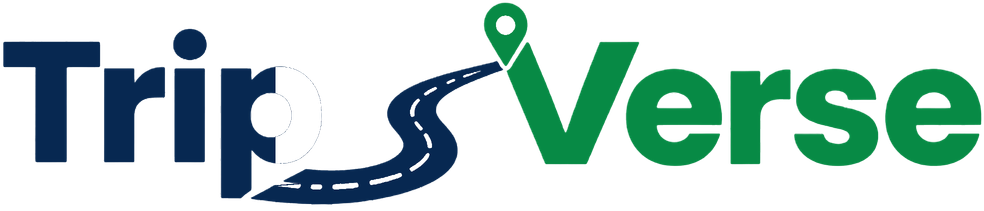
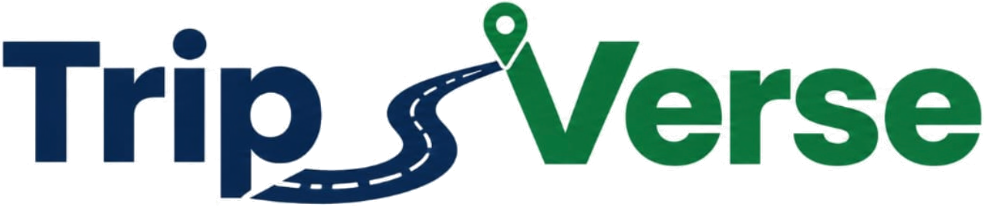
fix(ui,brand): restore 5-tab mobile bottom nav and original un-cut light-mode wordmark

diff --git a/src/components/common/BottomNav.tsx b/src/components/common/BottomNav.tsx
@@ -1,5 +1,5 @@
 import React from 'react';
-import { Home, Briefcase, Bookmark, User, Sparkles, Compass } from 'lucide-react';
+import { Home, Briefcase, Bookmark, User, Sparkles } from 'lucide-react';
 import { triggerHaptic } from '../../services/deviceService';
 import { useLanguage } from '../../services/languageService';
 
@@ -31,7 +31,7 @@ export const BottomNav: React.FC<BottomNavProps> = ({
   return (
     <nav
       aria-label="Mobile Bottom Navigation"
-      className="lg:hidden fixed bottom-0 left-0 right-0 z-40 bg-white/95 dark:bg-[#070C16]/95 backdrop-blur-xl border-t border-[#E2EBE1] dark:border-slate-800/90 px-1.5 py-1 shadow-[0_-4px_24px_rgba(45,90,61,0.06)] dark:shadow-[0_-4px_28px_rgba(0,0,0,0.45)] pb-safe transition-colors duration-200"
+      className="lg:hidden fixed bottom-0 left-0 right-0 z-40 bg-white/95 dark:bg-[#070C16]/95 backdrop-blur-xl border-t border-[#E2EBE1] dark:border-slate-800/90 px-2 py-1 shadow-[0_-4px_24px_rgba(45,90,61,0.06)] dark:shadow-[0_-4px_28px_rgba(0,0,0,0.45)] pb-safe transition-colors duration-200"
     >
       <div className="max-w-md mx-auto flex items-center justify-around">
         
@@ -39,7 +39,7 @@ export const BottomNav: React.FC<BottomNavProps> = ({
         <button
           type="button"
           onClick={() => handleTabClick('home')}
-          className={`relative flex flex-col items-center justify-center py-1.5 px-2.5 rounded-xl transition-all duration-200 active:scale-95 cursor-pointer ${
+          className={`relative flex flex-col items-center justify-center py-1.5 px-3 rounded-xl transition-all duration-200 active:scale-95 cursor-pointer ${
             currentTab === 'home'
               ? 'text-[#2D5A3D] dark:text-[#68B684]'
               : 'text-slate-500 dark:text-slate-400 hover:text-[#152A1C] dark:hover:text-slate-200'
@@ -48,7 +48,7 @@ export const BottomNav: React.FC<BottomNavProps> = ({
           aria-current={currentTab === 'home' ? 'page' : undefined}
         >
           <Home className={`w-5 h-5 transition-transform duration-200 ${currentTab === 'home' ? 'stroke-[2.5] scale-110' : 'stroke-[1.8]'}`} />
-          <span className={`text-[10px] sm:text-[11px] mt-0.5 transition-all duration-200 ${currentTab === 'home' ? 'font-bold' : 'font-medium'}`}>
+          <span className={`text-[11px] mt-0.5 transition-all duration-200 ${currentTab === 'home' ? 'font-bold' : 'font-medium'}`}>
             {t('bottomNav.home')}
           </span>
           {currentTab === 'home' && (
@@ -56,23 +56,23 @@ export const BottomNav: React.FC<BottomNavProps> = ({
           )}
         </button>
 
-        {/* Explore */}
+        {/* Itinerary */}
         <button
           type="button"
-          onClick={() => handleTabClick('explore')}
-          className={`relative flex flex-col items-center justify-center py-1.5 px-2.5 rounded-xl transition-all duration-200 active:scale-95 cursor-pointer ${
-            currentTab === 'explore'
+          onClick={() => handleTabClick('trip-detail')}
+          className={`relative flex flex-col items-center justify-center py-1.5 px-3 rounded-xl transition-all duration-200 active:scale-95 cursor-pointer ${
+            currentTab === 'trip-detail'
               ? 'text-[#2D5A3D] dark:text-[#68B684]'
               : 'text-slate-500 dark:text-slate-400 hover:text-[#152A1C] dark:hover:text-slate-200'
           }`}
-          aria-label={t('nav.destinations')}
-          aria-current={currentTab === 'explore' ? 'page' : undefined}
+          aria-label={t('bottomNav.itinerary')}
+          aria-current={currentTab === 'trip-detail' ? 'page' : undefined}
         >
-          <Compass className={`w-5 h-5 transition-transform duration-200 ${currentTab === 'explore' ? 'stroke-[2.5] scale-110' : 'stroke-[1.8]'}`} />
-          <span className={`text-[10px] sm:text-[11px] mt-0.5 transition-all duration-200 ${currentTab === 'explore' ? 'font-bold' : 'font-medium'}`}>
-            {t('Explore')}
+          <Briefcase className={`w-5 h-5 transition-transform duration-200 ${currentTab === 'trip-detail' ? 'stroke-[2.5] scale-110' : 'stroke-[1.8]'}`} />
+          <span className={`text-[11px] mt-0.5 transition-all duration-200 ${currentTab === 'trip-detail' ? 'font-bold' : 'font-medium'}`}>
+            {t('bottomNav.itinerary')}
           </span>
-          {currentTab === 'explore' && (
+          {currentTab === 'trip-detail' && (
             <span className="w-1.5 h-1.5 rounded-full bg-[#2D5A3D] dark:bg-[#68B684] mt-0.5 animate-scale-in" />
           )}
         </button>
@@ -92,32 +92,11 @@ export const BottomNav: React.FC<BottomNavProps> = ({
           </span>
         </button>
 
-        {/* Itinerary */}
-        <button
-          type="button"
-          onClick={() => handleTabClick('trip-detail')}
-          className={`relative flex flex-col items-center justify-center py-1.5 px-2.5 rounded-xl transition-all duration-200 active:scale-95 cursor-pointer ${
-            currentTab === 'trip-detail'
-              ? 'text-[#2D5A3D] dark:text-[#68B684]'
-              : 'text-slate-500 dark:text-slate-400 hover:text-[#152A1C] dark:hover:text-slate-200'
-          }`}
-          aria-label={t('bottomNav.itinerary')}
-          aria-current={currentTab === 'trip-detail' ? 'page' : undefined}
-        >
-          <Briefcase className={`w-5 h-5 transition-transform duration-200 ${currentTab === 'trip-detail' ? 'stroke-[2.5] scale-110' : 'stroke-[1.8]'}`} />
-          <span className={`text-[10px] sm:text-[11px] mt-0.5 transition-all duration-200 ${currentTab === 'trip-detail' ? 'font-bold' : 'font-medium'}`}>
-            {t('bottomNav.itinerary')}
-          </span>
-          {currentTab === 'trip-detail' && (
-            <span className="w-1.5 h-1.5 rounded-full bg-[#2D5A3D] dark:bg-[#68B684] mt-0.5 animate-scale-in" />
-          )}
-        </button>
-
         {/* Bookings / Trips */}
         <button
           type="button"
           onClick={() => handleTabClick('trips')}
-          className={`relative flex flex-col items-center justify-center py-1.5 px-2.5 rounded-xl transition-all duration-200 active:scale-95 cursor-pointer ${
+          className={`relative flex flex-col items-center justify-center py-1.5 px-3 rounded-xl transition-all duration-200 active:scale-95 cursor-pointer ${
             currentTab === 'trips'
               ? 'text-[#2D5A3D] dark:text-[#68B684]'
               : 'text-slate-500 dark:text-slate-400 hover:text-[#152A1C] dark:hover:text-slate-200'
@@ -126,7 +105,7 @@ export const BottomNav: React.FC<BottomNavProps> = ({
           aria-current={currentTab === 'trips' ? 'page' : undefined}
         >
           <Bookmark className={`w-5 h-5 transition-transform duration-200 ${currentTab === 'trips' ? 'stroke-[2.5] scale-110' : 'stroke-[1.8]'}`} />
-          <span className={`text-[10px] sm:text-[11px] mt-0.5 transition-all duration-200 ${currentTab === 'trips' ? 'font-bold' : 'font-medium'}`}>
+          <span className={`text-[11px] mt-0.5 transition-all duration-200 ${currentTab === 'trips' ? 'font-bold' : 'font-medium'}`}>
             {t('bottomNav.bookings')}
           </span>
           {currentTab === 'trips' && (
@@ -138,7 +117,7 @@ export const BottomNav: React.FC<BottomNavProps> = ({
         <button
           type="button"
           onClick={() => handleTabClick('profile')}
-          className={`relative flex flex-col items-center justify-center py-1.5 px-2.5 rounded-xl transition-all duration-200 active:scale-95 cursor-pointer ${
+          className={`relative flex flex-col items-center justify-center py-1.5 px-3 rounded-xl transition-all duration-200 active:scale-95 cursor-pointer ${
             currentTab === 'profile'
               ? 'text-[#2D5A3D] dark:text-[#68B684]'
               : 'text-slate-500 dark:text-slate-400 hover:text-[#152A1C] dark:hover:text-slate-200'
@@ -152,7 +131,7 @@ export const BottomNav: React.FC<BottomNavProps> = ({
               <span className="absolute -top-1 -right-1 w-2.5 h-2.5 bg-[#2D5A3D] dark:bg-[#68B684] rounded-full ring-2 ring-white dark:ring-[#070C16] animate-pulse" />
             )}
           </div>
-          <span className={`text-[10px] sm:text-[11px] mt-0.5 transition-all duration-200 ${currentTab === 'profile' ? 'font-bold' : 'font-medium'}`}>
+          <span className={`text-[11px] mt-0.5 transition-all duration-200 ${currentTab === 'profile' ? 'font-bold' : 'font-medium'}`}>
             {t('bottomNav.profile')}
           </span>
           {currentTab === 'profile' && (

diff --git a/src/components/common/Logo.tsx b/src/components/common/Logo.tsx
@@ -28,8 +28,8 @@ export const BrandIconMark: React.FC<BrandIconMarkProps> = ({
   if (!imgFailed) {
     return (
       <img
-        src="/tripverse-mark.png?v=13"
-        srcSet="/tripverse-mark.png?v=13 1x, /tripverse-mark@2x.png?v=13 2x, /tripverse-mark@3x.png?v=13 3x"
+        src="/tripverse-mark.png?v=14"
+        srcSet="/tripverse-mark.png?v=14 1x, /tripverse-mark@2x.png?v=14 2x, /tripverse-mark@3x.png?v=14 3x"
         alt="TripVerse Logo"
         onError={() => setImgFailed(true)}
         style={{ imageRendering: '-webkit-optimize-contrast' }}
@@ -265,8 +265,8 @@ export const Logo: React.FC<LogoProps> = ({
             {/* Light Mode Wordmark: Dark Navy 'Trip' + Forest Green 'Verse' (hidden in night mode) */}
             {(variant === 'dark' || isAuto) && (
               <img
-                src="/tripverse-title.png?v=13"
-                srcSet="/tripverse-title.png?v=13 1x, /tripverse-title@2x.png?v=13 2x"
+                src="/tripverse-title.png?v=14"
+                srcSet="/tripverse-title.png?v=14 1x, /tripverse-title@2x.png?v=14 2x"
                 alt="TripVerse"
                 onError={() => setTitleImgFailed(true)}
                 style={{ imageRendering: '-webkit-optimize-contrast' }}
@@ -282,8 +282,8 @@ export const Logo: React.FC<LogoProps> = ({
             {/* Night / Dark Mode Wordmark: Crisp Luminous Pearl 'Trip' + Vibrant Emerald 'Verse' (visible in night mode) */}
             {(variant === 'light' || isAuto) && (
               <img
-                src="/tripverse-title-dark.png?v=13"
-                srcSet="/tripverse-title-dark.png?v=13 1x, /tripverse-title-dark@2x.png?v=13 2x"
+                src="/tripverse-title-dark.png?v=14"
+                srcSet="/tripverse-title-dark.png?v=14 1x, /tripverse-title-dark@2x.png?v=14 2x"
                 alt="TripVerse"
                 onError={() => setTitleImgFailed(true)}
                 style={{ imageRendering: '-webkit-optimize-contrast' }}

diff --git a/public/sw.js b/public/sw.js
@@ -1,4 +1,4 @@
-const CACHE_NAME = 'tripverse-cache-v67';
+const CACHE_NAME = 'tripverse-cache-v68';
 const TILE_CACHE_NAME = 'tripverse-map-tiles-v1';
 const PRECACHE_ASSETS = [
   '/',
